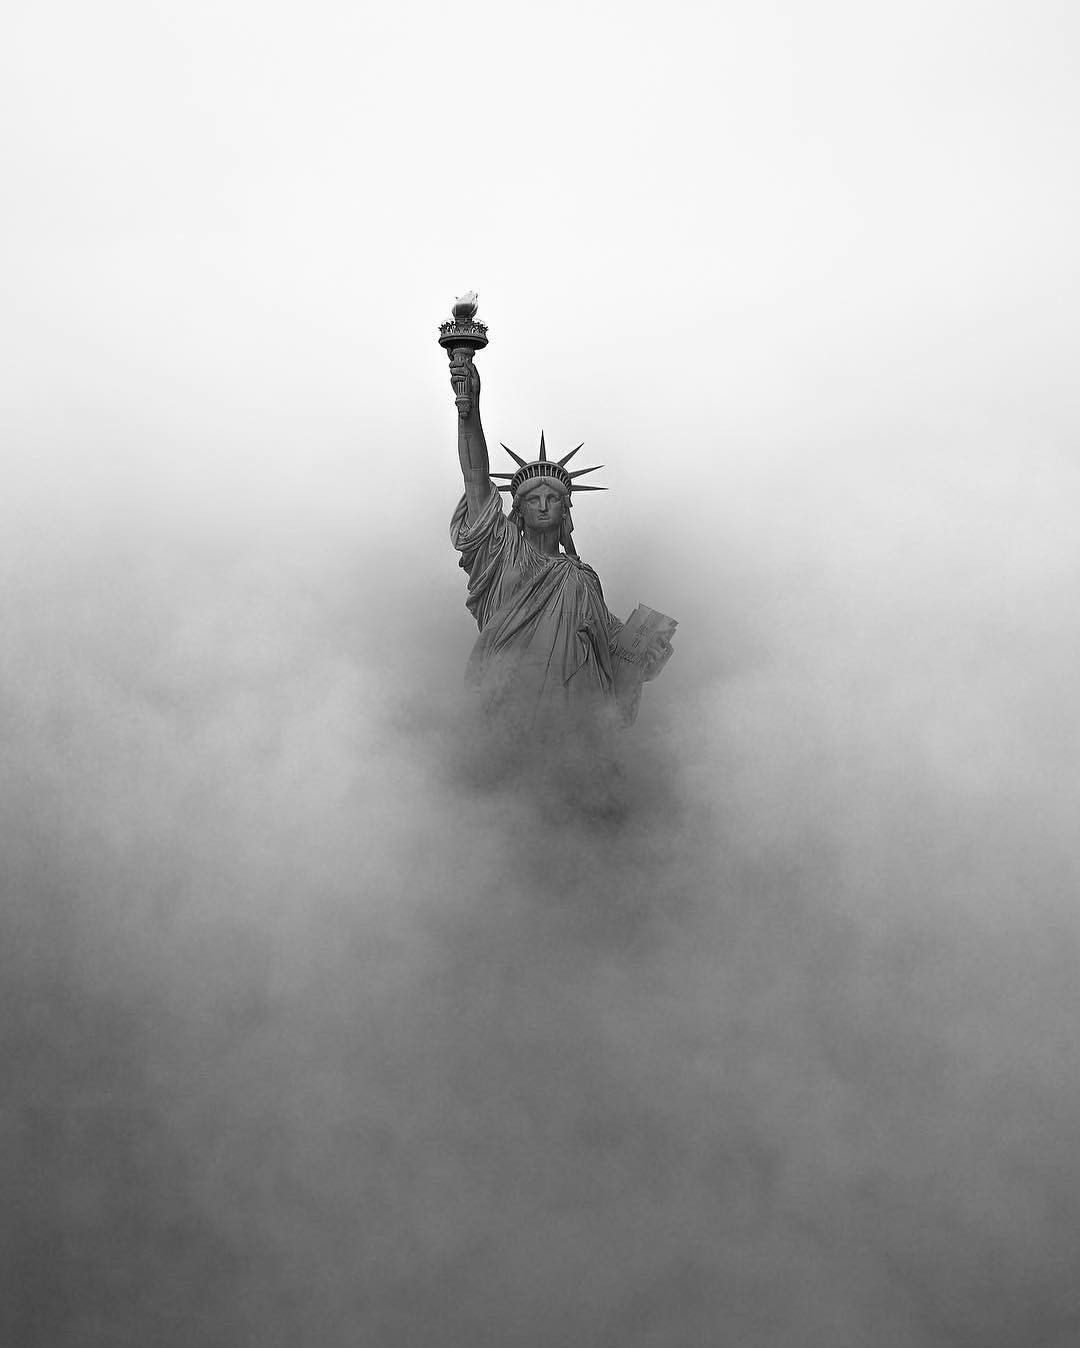
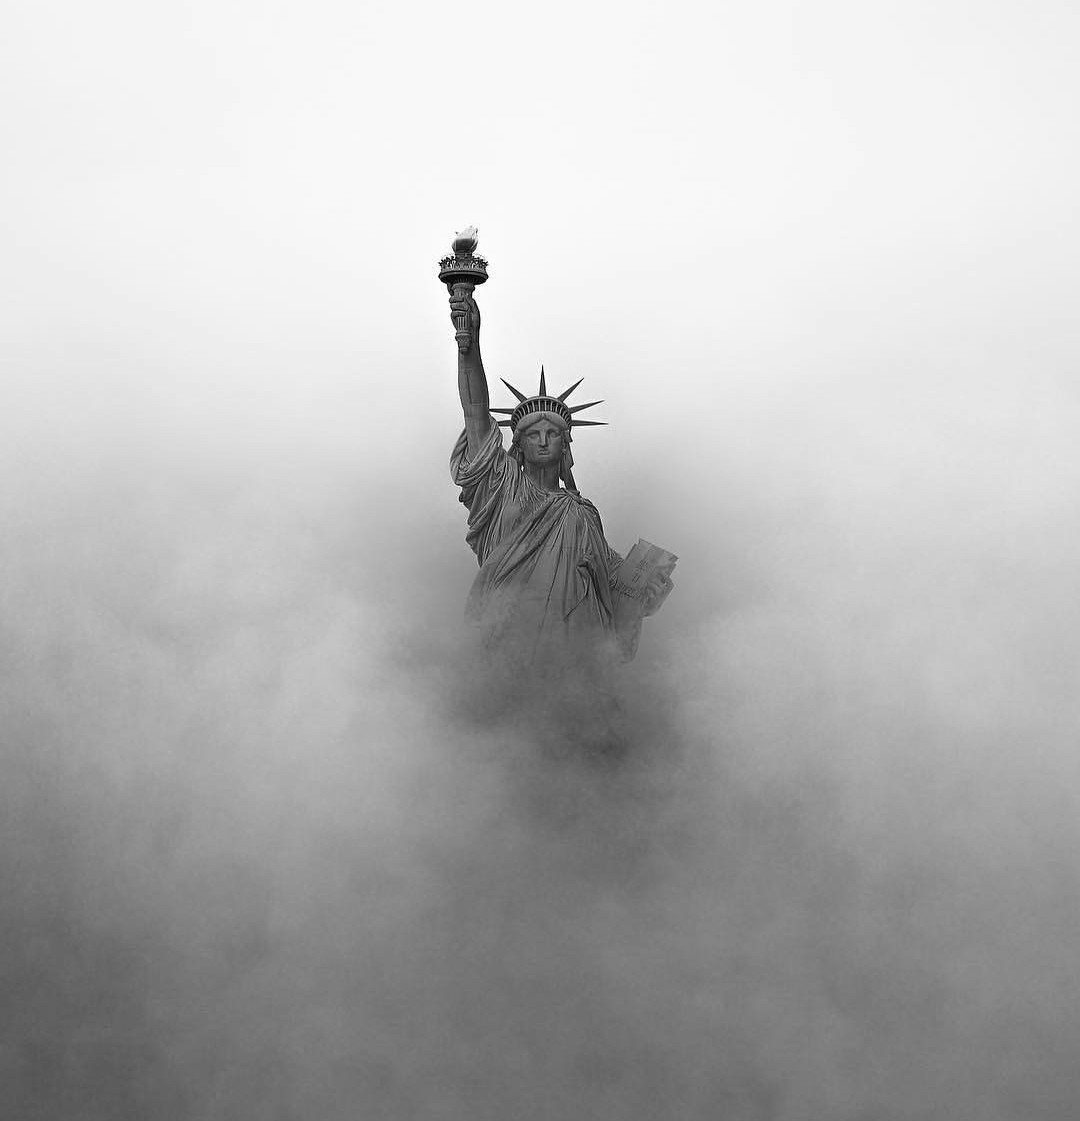
final style updates

diff --git a/styles.css b/styles.css
@@ -2,12 +2,17 @@ body {
     font-family: 'Delius', sans-serif;
     font-size: 16px;
     background:#eaeaea;
+    background-image: url("liberty.jpg");
+    background-repeat: no-repeat;
+    background-attachment: fixed;
+    background-position: center top;
 }
 #theTop {
-    background-color: rgb(196, 174, 185);
+    background-color: #999999;
+    color: white;
     text-align: center;
-    padding: 20px 10rem;
-    margin: 2em 6em;
+    padding: 20px 5rem;
+    margin: 2em 2em;
     text-transform: uppercase;
     font-family: 'Delius', sans-serif;
 }
@@ -35,7 +40,7 @@ body {
     margin: 2em 6em;
     margin-top: 0px;
     border: 2px solid rgb(196, 174, 185);
-    background: #f9f9f9;
+    
     text-align: center;
     font-family: 'Delius', sans-serif;
 }
@@ -96,4 +101,7 @@ input, textarea, select, button {
     text-align: right;
     font-weight: bold;
     padding: 3px;
+}
+#footer {
+    text-align: center;
 }

diff --git a/index.html b/index.html
@@ -67,10 +67,12 @@
                    </div>
                 </div>
               </div>
-
         </div>
     </div>
-
+    <p id="footer">
+        <a href="https://github.com/victoria-skylan/creativelab-4" target="_blank">
+          <img id="header-github-img" src="github.png" alt="find my project on github" height='35px'></a> </br>
+        Github:&nbsp; &nbsp; https://github.com/victoria-skylan/creativelab-4</p>
   </div>
   <script src="https://cdnjs.cloudflare.com/ajax/libs/axios/0.18.0/axios.min.js" integrity="sha256-mpnrJ5DpEZZkwkE1ZgkEQQJW/46CSEh/STrZKOB/qoM=" crossorigin="anonymous"></script>
   <script src="https://cdnjs.cloudflare.com/ajax/libs/vue/2.6.7/vue.js" integrity="sha256-g+Q8DFAmG5+eyRPSydX0LY4TfjsL11XSDrIGerbbEdA=" crossorigin="anonymous"></script>
